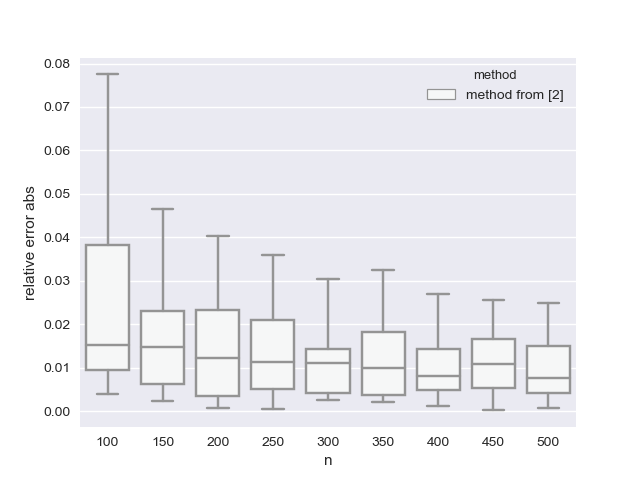
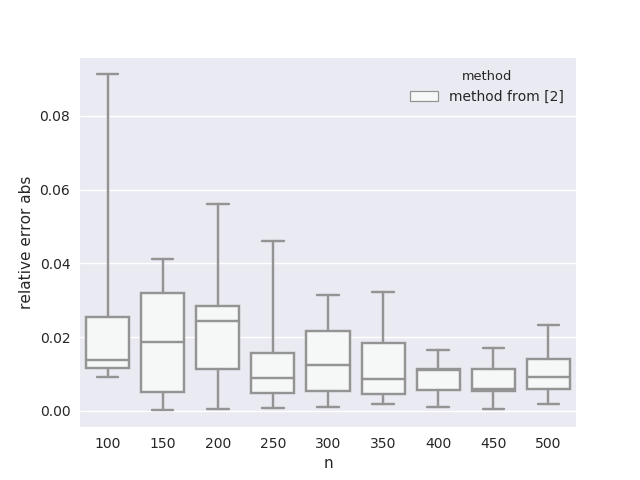
snapshot of working state

diff --git a/src/measure.py b/src/measure.py
@@ -45,10 +45,7 @@ if __name__ == "__main__":
     TRIES = 100
     WORKERS = 8
 
-    for n in range(100, 500, 100):
-        if n % 50 == 0:
-            print("Skip:", n)
-            continue
+    for n in range(100, 501, 50):
         measured_c = measure_c(n, TRIES, WORKERS)
         print(len(measured_c))
         open("data/diff_ns/dirichlet_%d_%d.txt" % (n, TRIES), 'w').write(json.dumps(measured_c))

diff --git a/src/diff_n_drawer.py b/src/diff_n_drawer.py
@@ -31,7 +31,7 @@ if __name__ == "__main__":
     ns = range(100, 501, 50)
     columns = ["n", "method", "relative error abs"]
     workers = 4
-    tries = 1000
+    tries = 100
     x = 0.75
 
     data_function = est_error(FirstCmsDirEstimator(5))
